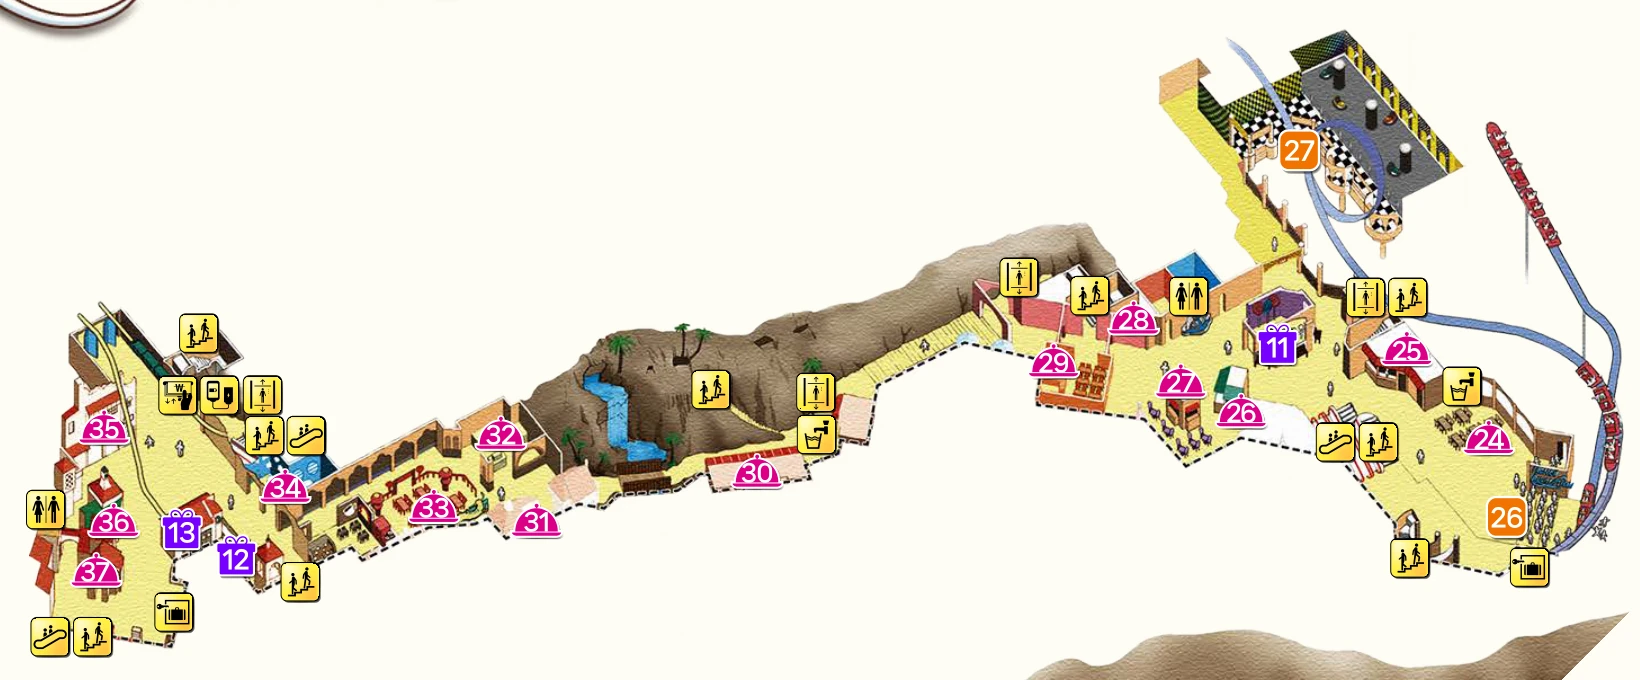
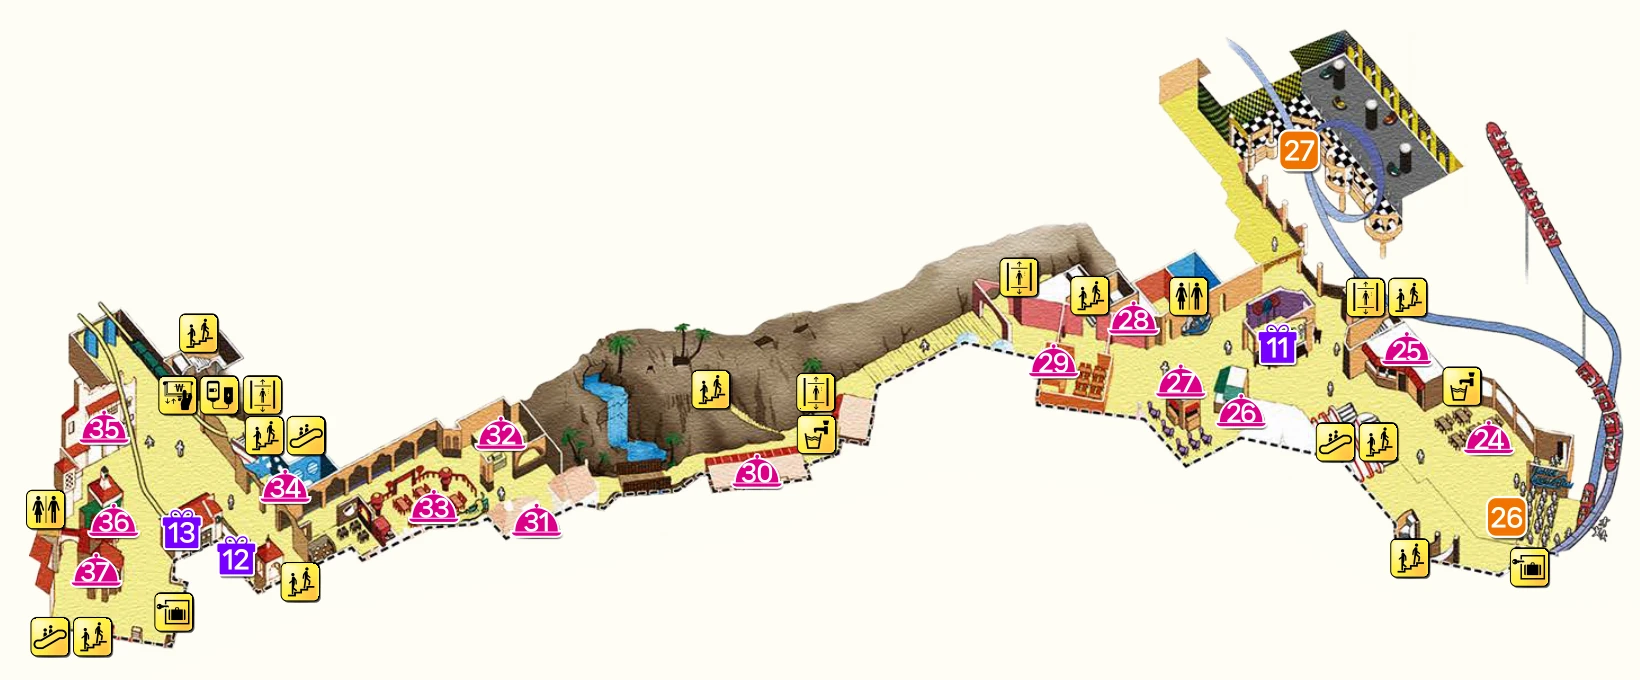
Isolate second-floor artwork from neighbouring floors

Changed region(s): [[0.622, 0.8956, 0.9951, 1.0], [0.0, 0.0, 0.0933, 0.0618]]

diff --git a/scripts/extract_guide.py b/scripts/extract_guide.py
@@ -16,7 +16,7 @@ PDF = fitz.open(sys.argv[1])
 FLOORS = [
     dict(id='B1', label='B1', name='언더랜드', page=0, crop=[660,130,1555,810], bg='#fffaf7'),
     dict(id='1F', label='1F', name='어드벤처 1층', page=1, crop=[300,45,1425,805], bg='#fffafd'),
-    dict(id='2F', label='2F', name='어드벤처 2층', page=2, crop=[160,120,980,460], bg='#fffdf4', polygon=[[160,120],[980,120],[980,420],[940,460],[160,460]]),
+    dict(id='2F', label='2F', name='어드벤처 2층', page=2, crop=[160,120,980,460], bg='#fffdf4', polygon=[[160,120],[980,120],[980,420],[870,425],[800,385],[715,365],[630,355],[530,390],[420,410],[320,425],[230,460],[160,460]]),
     dict(id='3F', label='3F', name='어드벤처 3층', page=2, crop=[600,325,1415,610], bg='#fffdf4', polygon=[[600,460],[980,420],[1050,325],[1415,325],[1415,610],[600,610]]),
     dict(id='4F', label='4F', name='어드벤처 4층', page=2, crop=[1030,475,1880,815], bg='#fffdf4', polygon=[[1030,610],[1415,610],[1430,475],[1880,475],[1880,815],[1030,815]]),
     dict(id='MAGIC', label='매직', name='매직아일랜드', page=3, crop=[295,25,1125,805], bg='#ffffff'),
@@ -187,6 +187,8 @@ for f in FLOORS:
     if f['id']=='1F':
         # Remove only the clipped page-title fragment outside the floor artwork.
         ImageDraw.Draw(im).rectangle([0,0,(500-c[0])*2,(175-c[1])*2],fill=rendered[1].getpixel((800,60)))
+    if f['id']=='2F':
+        ImageDraw.Draw(im).rectangle([0,0,(600-c[0])*2,(180-c[1])*2],fill=rendered[2].getpixel((1100,100)))
     if 'polygon' in f:
         mask=Image.new('L',im.size);ImageDraw.Draw(mask).polygon([((x-c[0])*2,(y-c[1])*2) for x,y in f['polygon']],fill=255)
         back=Image.new('RGB',im.size,f['bg']);back.paste(im,(0,0),mask);im=back
